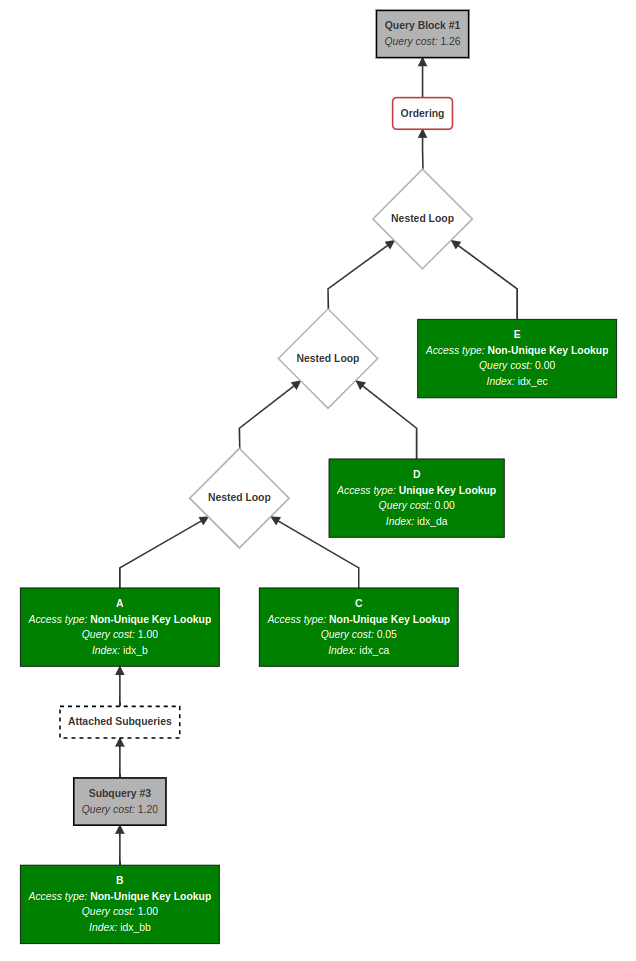
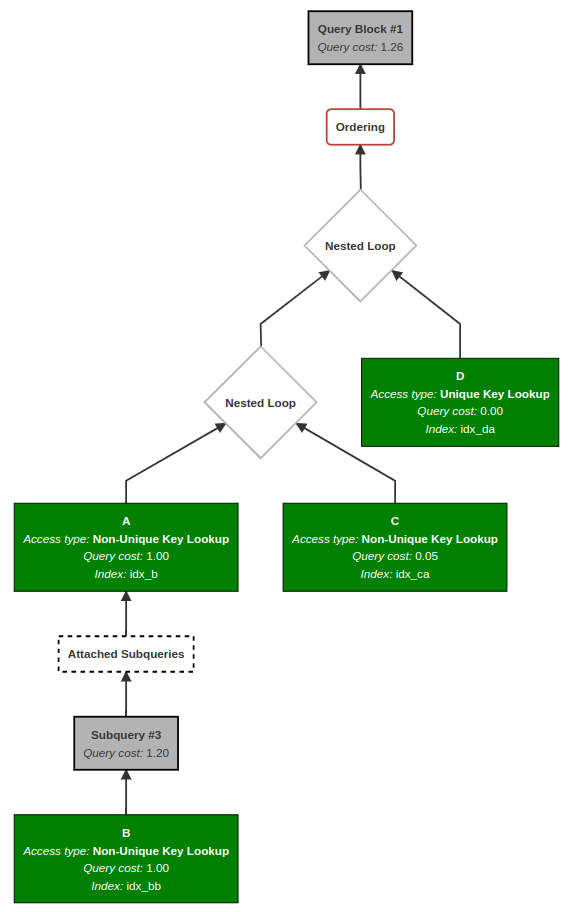
Update content

Changed region(s): [[0.0, 0.0, 0.9842, 1.0]]

diff --git a/README.md b/README.md
@@ -11,7 +11,7 @@ Turn MySQL Explain JSON into vector UML sequence diagrams
 
 We can turn
 ```json
-{{
+{
   "query_block": {
     "select_id": 1,
     "cost_info": {
@@ -27,13 +27,7 @@ We can turn
             "possible_keys": [
               "idx_a",
               "idx_b",
-              "idx_c",
-              "idx_sk",
-              "idx_sc",
-              "idx_s",
-              "idx_g",
-              "idx_sk",
-              "idx_sc"
+              "idx_c"
             ],
             "key": "idx_b",
             "used_key_parts": [
@@ -168,39 +162,6 @@ We can turn
               "state"
             ]
           }
-        },
-        {
-          "table": {
-            "table_name": "E",
-            "access_type": "ref",
-            "possible_keys": [
-              "idx_ea",
-              "idx_eb",
-              "idx_ec"
-            ],
-            "key": "idx_ec",
-            "used_key_parts": [
-              "user_id"
-            ],
-            "key_length": "4",
-            "ref": [
-              "rc.D.user_id"
-            ],
-            "rows_examined_per_scan": 2,
-            "rows_produced_per_join": 0,
-            "filtered": "100.00",
-            "cost_info": {
-              "read_cost": "0.00",
-              "eval_cost": "0.00",
-              "prefix_cost": "1.26",
-              "data_read_per_join": "1"
-            },
-            "used_columns": [
-              "id",
-              "system_id",
-              "user_id"
-            ]
-          }
         }
       ]
     }
@@ -210,7 +171,7 @@ We can turn
 
 into
 
-![Image](public/visualization.png)
+<img src="public/visualization.png" align="center">
 
 
 ## Thanks
